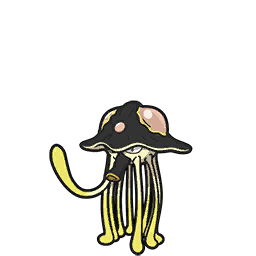
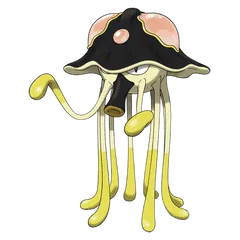
add Toedscool, Toedscruel

diff --git a/006-pgo/pgotypes.cpp b/006-pgo/pgotypes.cpp
@@ -3978,6 +3978,24 @@ static const attack* GRAFAIAI_ATKS[] = {
   NULL
 };
 
+static const attack* TOEDSCOOL_ATKS[] = {
+  &ATK_Mud_Slap,
+  &ATK_Mud_Shot,
+  &ATK_Earth_Power,
+  &ATK_Seed_Bomb,
+  &ATK_Wrap,
+  NULL
+};
+
+static const attack* TOEDSCRUEL_ATKS[] = {
+  &ATK_Mud_Slap,
+  &ATK_Mud_Shot,
+  &ATK_Earth_Power,
+  &ATK_Seed_Bomb,
+  &ATK_Acid_Spray,
+  NULL
+};
+
 static const attack* VAROOM_ATKS[] = {
   &ATK_Lick,
   &ATK_Poison_Jab,
@@ -12543,6 +12561,9 @@ static const species sdex[] = {
   {  939, "Bellibolt", TYPE_ELECTRIC, TYPECOUNT, 184, 165, 240, "Tadbulb", BELLIBOLT_ATKS, false, false, {}, species::CAT_NORMAL, 50, nullptr, },
   {  944, "Shroodle", TYPE_POISON, TYPE_NORMAL, 124, 70, 120, NULL, SHROODLE_ATKS, false, false, {}, species::CAT_NORMAL, 50, nullptr, },
   {  945, "Grafaiai", TYPE_POISON, TYPE_NORMAL, 199, 149, 160, "Shroodle", GRAFAIAI_ATKS, false, false, {}, species::CAT_NORMAL, 50, nullptr, },
+  // released 2025-07-29
+  {  948, "Toedscool", TYPE_GRASS, TYPE_GROUND, 97, 149, 120, nullptr, TOEDSCOOL_ATKS, false, false, {}, species::CAT_NORMAL, 50,  nullptr, },
+  {  949, "Toedscruel", TYPE_GRASS, TYPE_GROUND, 166, 209, 190, nullptr, TOEDSCRUEL_ATKS, false, false, {}, species::CAT_NORMAL, 50,  nullptr, },
   {  957, "Tinkatink", TYPE_FAIRY, TYPE_STEEL, 85, 110, 137, NULL, TINKATINK_ATKS, false, false, {}, species::CAT_NORMAL, 75, nullptr, },
   {  958, "Tinkatuff", TYPE_FAIRY, TYPE_STEEL, 109, 145, 163, "Tinkatink", TINKATUFF_ATKS, false, false, {}, species::CAT_NORMAL, 75, nullptr, },
   {  959, "Tinkaton", TYPE_FAIRY, TYPE_STEEL, 155, 196, 198, "Tinkatuff", TINKATON_ATKS, false, false, {}, species::CAT_NORMAL, 75, nullptr, },
@@ -13230,6 +13251,14 @@ region_idx_first(unsigned region){
     throw std::invalid_argument("bad region");
   }
   return regfirst[region];
+}
+
+static inline int
+region_idx_last(unsigned region){
+  if(region == 9){
+    return 1025;
+  }
+  return region_idx_last(region + 1) - 1;
 }
 
 // FIXME rewrite using region_idx_first()
